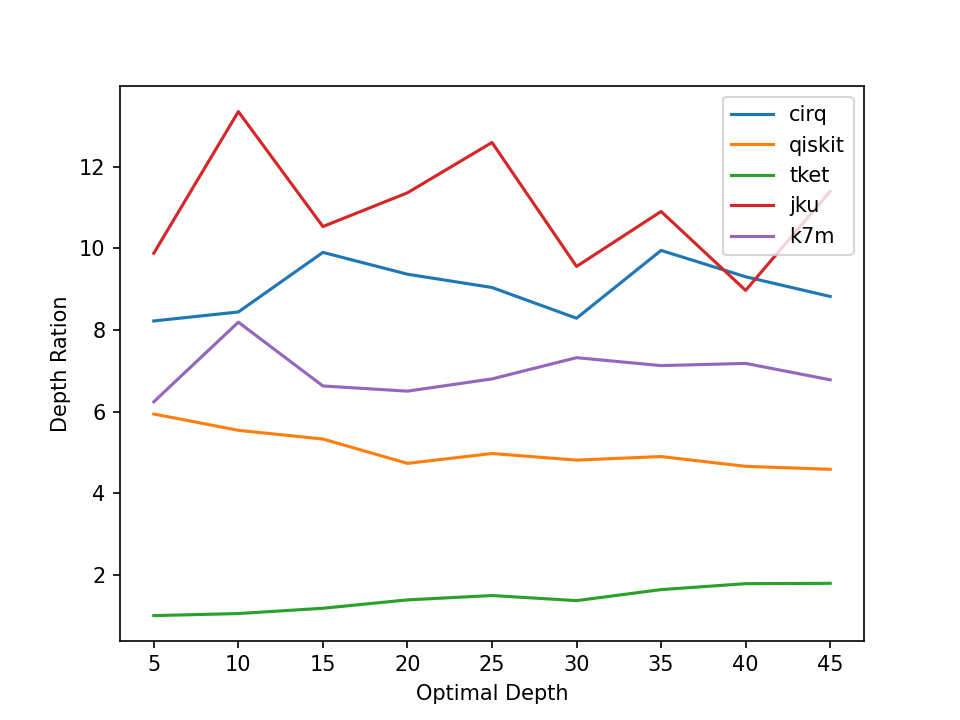
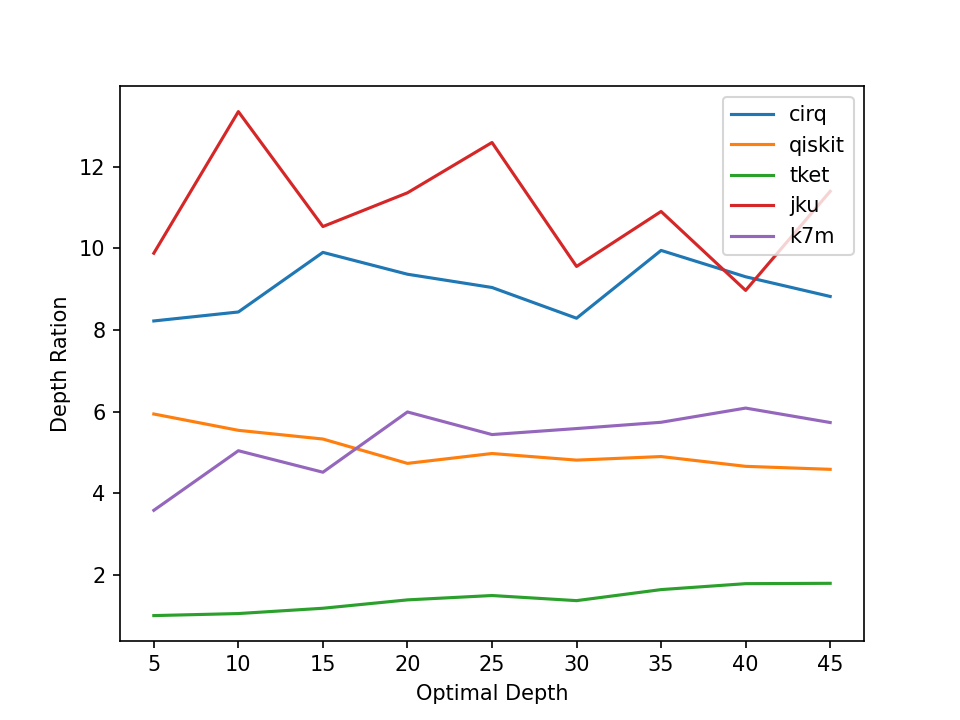
benchmark

diff --git a/main.py b/main.py
@@ -40,36 +40,38 @@ def main():
 
     parameters = {
         # the number of qubits in the device
-        "nisq_qubits" : temp["qubits"],
-
-        # maximum number of children of a node
-        "max_children": circ.n_qubits,
+        "nisq_qubits": temp["qubits"],
 
         # maximum depth of the search tree
         # after this depth, the leafs are evaluated
         # and only the path with minimum cost is kept in the tree
         # thus, the tree is pruned
         "max_depth": circ.n_qubits,
+        # "max_depth": test_circuit.n_qubits/4,
+
+        # maximum number of children of a node
+        # "max_children": qiskit_coupling_map.size(),
+        "max_children": 3,
 
         # the first number_of_qubits * this factor the search maximises the cost
         # afterwards it minimises it
         "option_max_then_min": False,
         "qubit_increase_factor": 3,
 
-        "option_skipped_cnots": False,
+        "option_skipped_cnots": True,
         "penalty_skipped_cnot": 200,
 
         # later changes in the mapping should not affect
         # the initial mapping of the circuit
-        "option_attenuate" : True,
+        "option_attenuate": True,
 
         # Should the initial mapping be chosen random?
-        "initial_map" : K7MInitialMapping.HEURISTIC,
+        "initial_map": K7MInitialMapping.HEURISTIC,
 
         "unidirectional_coupling": False,
 
-        "dry_run" : False,
-        "gate_costs" : gate_costs,
+        "dry_run": False,
+        "gate_costs": gate_costs,
     }
 
     k7m = K7MCompiler(coupling, parameters)

diff --git a/k7m_start_configuration.py b/k7m_start_configuration.py
@@ -315,7 +315,7 @@ def cuthill_order(dag_circuit, coupling_object, parameters):
                 skipped_penalty = 0
                 # print("check", qubit, "tmp sum", temp_cost, "order", order)
                 if parameters["option_skipped_cnots"]:
-                    skipped_penalty = skipped * parameters["skipped_cnot_penalty"]
+                    skipped_penalty = skipped * parameters["penalty_skipped_cnot"]
 
 
                 temp_cost += reverse_cond * skipped_penalty
